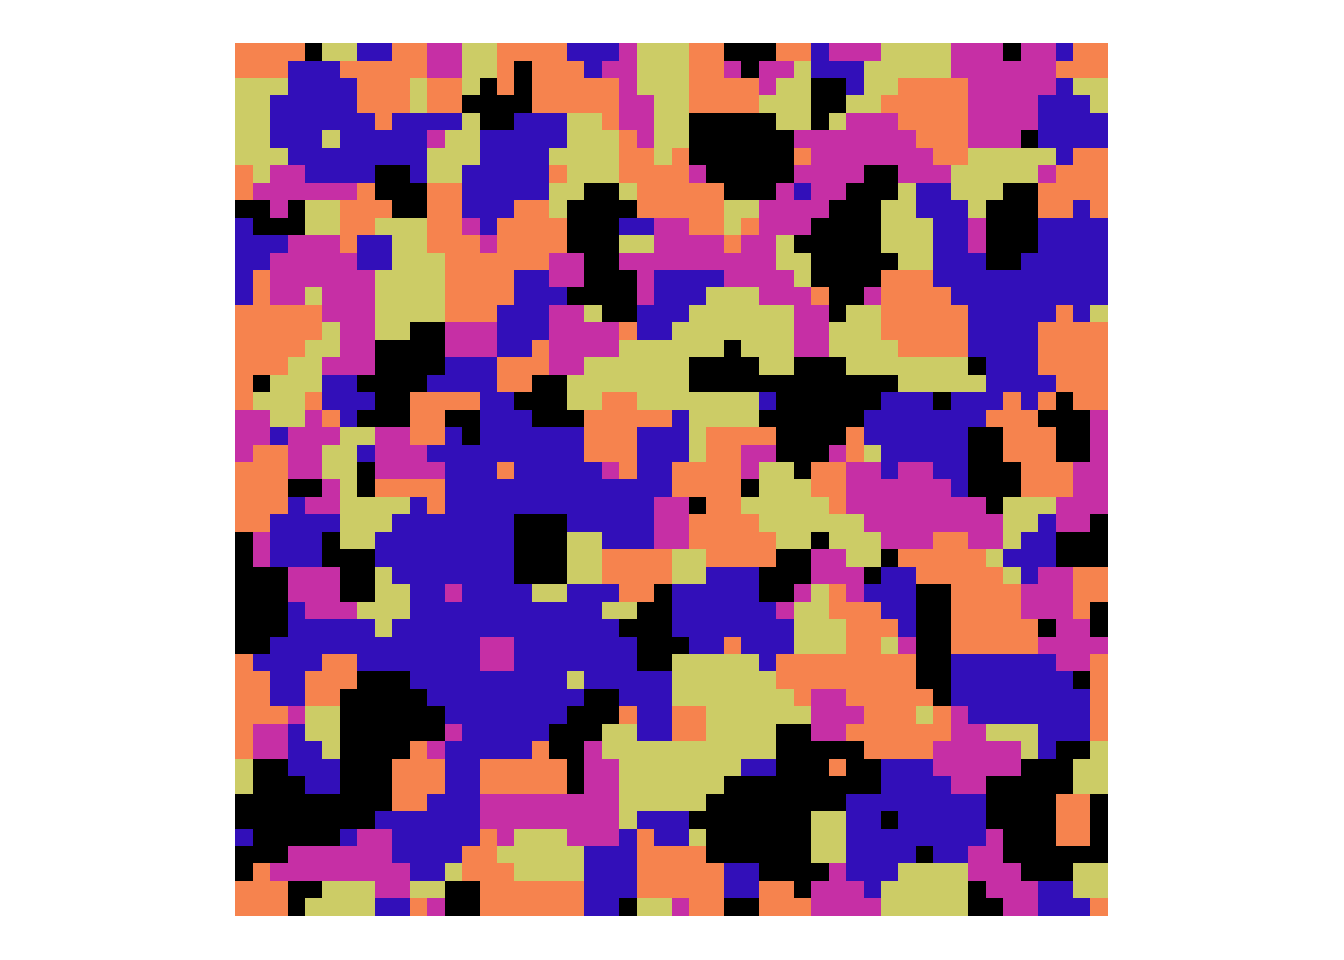
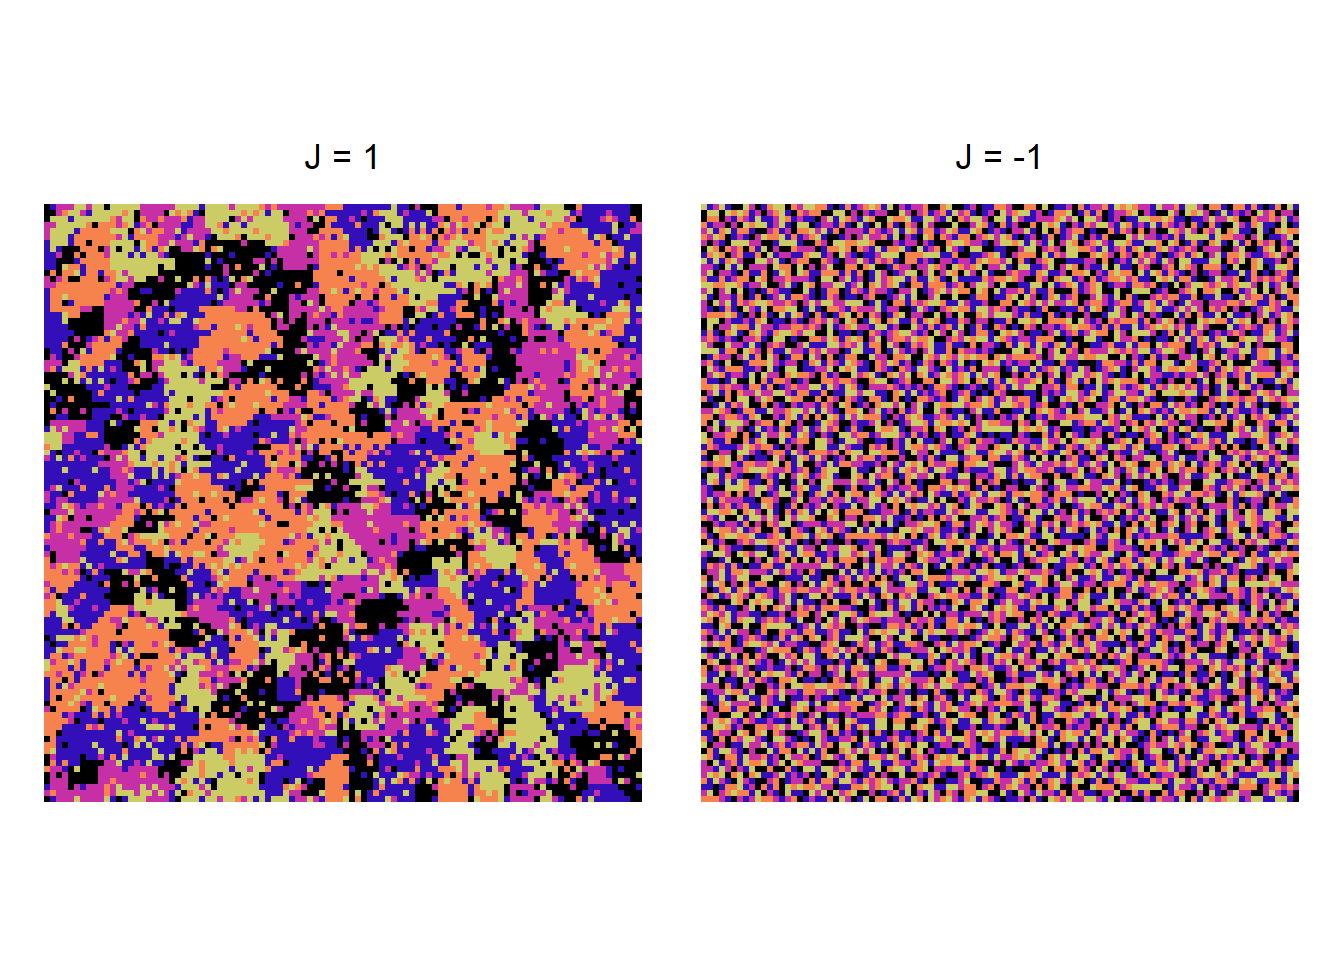
updte

diff --git a/docs/posts/2025-12-19-spatial-patterns-2/index.html b/docs/posts/2025-12-19-spatial-patterns-2/index.html
@@ -357,7 +357,7 @@ H(s) = -J\sum_{\langle i, j\rangle} \delta(s_i,s_j)
 <div class="cell">
 <div class="sourceCode cell-code" id="cb5"><pre class="sourceCode r code-with-copy"><code class="sourceCode r"><span id="cb5-1"><a href="#cb5-1" aria-hidden="true" tabindex="-1"></a><span class="fu">ifelse</span>(<span class="fu">runif</span>(<span class="dv">1</span>) <span class="sc">&lt;</span> P, <span class="dv">1</span>, <span class="sc">-</span><span class="dv">1</span>)</span></code><button title="Copy to Clipboard" class="code-copy-button"><i class="bi"></i></button></pre></div>
 <div class="cell-output cell-output-stdout">
-<pre><code>[1] -1</code></pre>
+<pre><code>[1] 1</code></pre>
 </div>
 </div>
 <p>Putting this together, we have a function with which we can loop over focal states and then make updates.</p>
@@ -577,7 +577,7 @@ H(s) = -J\sum_{\langle i, j\rangle} \delta(s_i,s_j)
 </section>
 <section id="potts-example" class="level2">
 <h2 class="anchored" data-anchor-id="potts-example">Potts Example</h2>
-<p>Now let’s turn to the potts model. This code looks very simulate to the previous, except that instead of summing across all the states, we use <code>tabulate</code> to retrieve the frequency of the states within the neighborhood. All other changes are to extend the model to <code>q</code> states (e.g., <code>seq_len(q)</code>).</p>
+<p>Now let’s turn to the Potts model. This code looks very simulate to the previous, except that instead of summing across all the states, we use <code>tabulate</code> to retrieve the frequency of the states within the neighborhood. All other changes are to extend the model to <code>q</code> states (e.g., <code>seq_len(q)</code>).</p>
 <div class="cell">
 <div class="sourceCode cell-code" id="cb14"><pre class="sourceCode r code-with-copy"><code class="sourceCode r"><span id="cb14-1"><a href="#cb14-1" aria-hidden="true" tabindex="-1"></a>potts <span class="ot">=</span> <span class="cf">function</span>(<span class="at">N =</span> <span class="dv">50</span>, </span>
 <span id="cb14-2"><a href="#cb14-2" aria-hidden="true" tabindex="-1"></a>                 <span class="at">q =</span> <span class="dv">5</span>, </span>
@@ -608,21 +608,40 @@ H(s) = -J\sum_{\langle i, j\rangle} \delta(s_i,s_j)
 <span id="cb14-27"><a href="#cb14-27" aria-hidden="true" tabindex="-1"></a>}</span></code><button title="Copy to Clipboard" class="code-copy-button"><i class="bi"></i></button></pre></div>
 </div>
 <div class="cell">
-<div class="sourceCode cell-code" id="cb15"><pre class="sourceCode r code-with-copy"><code class="sourceCode r"><span id="cb15-1"><a href="#cb15-1" aria-hidden="true" tabindex="-1"></a>N <span class="ot">=</span> <span class="dv">50</span></span>
-<span id="cb15-2"><a href="#cb15-2" aria-hidden="true" tabindex="-1"></a>beta <span class="ot">=</span> <span class="fl">0.8</span></span>
+<div class="sourceCode cell-code" id="cb15"><pre class="sourceCode r code-with-copy"><code class="sourceCode r"><span id="cb15-1"><a href="#cb15-1" aria-hidden="true" tabindex="-1"></a>N <span class="ot">=</span> <span class="dv">100</span></span>
+<span id="cb15-2"><a href="#cb15-2" aria-hidden="true" tabindex="-1"></a>beta <span class="ot">=</span> <span class="fl">0.3</span></span>
 <span id="cb15-3"><a href="#cb15-3" aria-hidden="true" tabindex="-1"></a>J <span class="ot">=</span> <span class="dv">1</span></span>
 <span id="cb15-4"><a href="#cb15-4" aria-hidden="true" tabindex="-1"></a>max_T <span class="ot">=</span> <span class="fl">1e4</span></span>
 <span id="cb15-5"><a href="#cb15-5" aria-hidden="true" tabindex="-1"></a>Ps <span class="ot">=</span> <span class="fu">potts</span>(<span class="at">N=</span>N, <span class="at">beta=</span>beta, <span class="at">J=</span>J, </span>
-<span id="cb15-6"><a href="#cb15-6" aria-hidden="true" tabindex="-1"></a>           <span class="at">n_steps =</span> max_T, <span class="at">offsets =</span> <span class="fu">disk_offsets</span>(<span class="at">rd=</span><span class="dv">1</span>))</span>
+<span id="cb15-6"><a href="#cb15-6" aria-hidden="true" tabindex="-1"></a>           <span class="at">n_steps =</span> max_T, <span class="at">offsets =</span> <span class="fu">disk_offsets</span>(<span class="at">rd=</span><span class="dv">3</span>))</span>
 <span id="cb15-7"><a href="#cb15-7" aria-hidden="true" tabindex="-1"></a></span>
-<span id="cb15-8"><a href="#cb15-8" aria-hidden="true" tabindex="-1"></a><span class="fu">expand.grid</span>(<span class="at">i=</span><span class="dv">1</span><span class="sc">:</span>N, <span class="at">j=</span><span class="dv">1</span><span class="sc">:</span>N) <span class="sc">|&gt;</span> </span>
+<span id="cb15-8"><a href="#cb15-8" aria-hidden="true" tabindex="-1"></a>p1 <span class="ot">=</span> <span class="fu">expand.grid</span>(<span class="at">i=</span><span class="dv">1</span><span class="sc">:</span>N, <span class="at">j=</span><span class="dv">1</span><span class="sc">:</span>N) <span class="sc">|&gt;</span> </span>
 <span id="cb15-9"><a href="#cb15-9" aria-hidden="true" tabindex="-1"></a>  <span class="fu">mutate</span>(<span class="at">Ps =</span> <span class="fu">as.vector</span>(Ps)) <span class="sc">|&gt;</span> </span>
 <span id="cb15-10"><a href="#cb15-10" aria-hidden="true" tabindex="-1"></a>  <span class="fu">ggplot</span>(<span class="fu">aes</span>(i,j)) <span class="sc">+</span> </span>
 <span id="cb15-11"><a href="#cb15-11" aria-hidden="true" tabindex="-1"></a>  <span class="fu">geom_tile</span>(<span class="fu">aes</span>(<span class="at">fill=</span>Ps)) <span class="sc">+</span> </span>
 <span id="cb15-12"><a href="#cb15-12" aria-hidden="true" tabindex="-1"></a>  <span class="fu">theme_void</span>() <span class="sc">+</span> </span>
-<span id="cb15-13"><a href="#cb15-13" aria-hidden="true" tabindex="-1"></a>  <span class="fu">theme</span>(<span class="at">legend.position =</span> <span class="st">'none'</span>) <span class="sc">+</span> </span>
-<span id="cb15-14"><a href="#cb15-14" aria-hidden="true" tabindex="-1"></a>  <span class="fu">coord_fixed</span>() <span class="sc">+</span> </span>
-<span id="cb15-15"><a href="#cb15-15" aria-hidden="true" tabindex="-1"></a>  <span class="fu">scale_fill_gradientn</span>(<span class="at">colours =</span> <span class="fu">c</span>(<span class="st">'#000000'</span>,<span class="st">'#3300ff'</span>,<span class="st">'tomato'</span>,<span class="st">'#cccc66'</span>))</span></code><button title="Copy to Clipboard" class="code-copy-button"><i class="bi"></i></button></pre></div>
+<span id="cb15-13"><a href="#cb15-13" aria-hidden="true" tabindex="-1"></a>  <span class="fu">theme</span>(<span class="at">legend.position =</span> <span class="st">'none'</span>, </span>
+<span id="cb15-14"><a href="#cb15-14" aria-hidden="true" tabindex="-1"></a>        <span class="at">plot.title =</span> <span class="fu">element_text</span>(<span class="at">hjust =</span> <span class="fl">0.5</span>)) <span class="sc">+</span> </span>
+<span id="cb15-15"><a href="#cb15-15" aria-hidden="true" tabindex="-1"></a>  <span class="fu">coord_fixed</span>() <span class="sc">+</span> </span>
+<span id="cb15-16"><a href="#cb15-16" aria-hidden="true" tabindex="-1"></a>  <span class="fu">labs</span>(<span class="at">title =</span> <span class="st">'J = 1'</span>) <span class="sc">+</span> </span>
+<span id="cb15-17"><a href="#cb15-17" aria-hidden="true" tabindex="-1"></a>  <span class="fu">scale_fill_gradientn</span>(<span class="at">colours =</span> <span class="fu">c</span>(<span class="st">'#000000'</span>,<span class="st">'#3300ff'</span>,<span class="st">'tomato'</span>,<span class="st">'#cccc66'</span>))</span>
+<span id="cb15-18"><a href="#cb15-18" aria-hidden="true" tabindex="-1"></a></span>
+<span id="cb15-19"><a href="#cb15-19" aria-hidden="true" tabindex="-1"></a>J <span class="ot">=</span> <span class="sc">-</span><span class="dv">1</span></span>
+<span id="cb15-20"><a href="#cb15-20" aria-hidden="true" tabindex="-1"></a>Ps <span class="ot">=</span> <span class="fu">potts</span>(<span class="at">N=</span>N, <span class="at">beta=</span>beta, <span class="at">J=</span>J, </span>
+<span id="cb15-21"><a href="#cb15-21" aria-hidden="true" tabindex="-1"></a>           <span class="at">n_steps =</span> max_T, <span class="at">offsets =</span> <span class="fu">disk_offsets</span>(<span class="at">rd=</span><span class="dv">3</span>))</span>
+<span id="cb15-22"><a href="#cb15-22" aria-hidden="true" tabindex="-1"></a></span>
+<span id="cb15-23"><a href="#cb15-23" aria-hidden="true" tabindex="-1"></a>p2 <span class="ot">=</span> <span class="fu">expand.grid</span>(<span class="at">i=</span><span class="dv">1</span><span class="sc">:</span>N, <span class="at">j=</span><span class="dv">1</span><span class="sc">:</span>N) <span class="sc">|&gt;</span> </span>
+<span id="cb15-24"><a href="#cb15-24" aria-hidden="true" tabindex="-1"></a>  <span class="fu">mutate</span>(<span class="at">Ps =</span> <span class="fu">as.vector</span>(Ps)) <span class="sc">|&gt;</span> </span>
+<span id="cb15-25"><a href="#cb15-25" aria-hidden="true" tabindex="-1"></a>  <span class="fu">ggplot</span>(<span class="fu">aes</span>(i,j)) <span class="sc">+</span> </span>
+<span id="cb15-26"><a href="#cb15-26" aria-hidden="true" tabindex="-1"></a>  <span class="fu">geom_tile</span>(<span class="fu">aes</span>(<span class="at">fill=</span>Ps)) <span class="sc">+</span> </span>
+<span id="cb15-27"><a href="#cb15-27" aria-hidden="true" tabindex="-1"></a>  <span class="fu">theme_void</span>() <span class="sc">+</span> </span>
+<span id="cb15-28"><a href="#cb15-28" aria-hidden="true" tabindex="-1"></a>  <span class="fu">theme</span>(<span class="at">legend.position =</span> <span class="st">'none'</span>, </span>
+<span id="cb15-29"><a href="#cb15-29" aria-hidden="true" tabindex="-1"></a>        <span class="at">plot.title =</span> <span class="fu">element_text</span>(<span class="at">hjust =</span> <span class="fl">0.5</span>)) <span class="sc">+</span> </span>
+<span id="cb15-30"><a href="#cb15-30" aria-hidden="true" tabindex="-1"></a>  <span class="fu">coord_fixed</span>() <span class="sc">+</span> </span>
+<span id="cb15-31"><a href="#cb15-31" aria-hidden="true" tabindex="-1"></a>  <span class="fu">labs</span>(<span class="at">title =</span> <span class="st">'J = -1'</span>) <span class="sc">+</span> </span>
+<span id="cb15-32"><a href="#cb15-32" aria-hidden="true" tabindex="-1"></a>  <span class="fu">scale_fill_gradientn</span>(<span class="at">colours =</span> <span class="fu">c</span>(<span class="st">'#000000'</span>,<span class="st">'#3300ff'</span>,<span class="st">'tomato'</span>,<span class="st">'#cccc66'</span>))</span>
+<span id="cb15-33"><a href="#cb15-33" aria-hidden="true" tabindex="-1"></a></span>
+<span id="cb15-34"><a href="#cb15-34" aria-hidden="true" tabindex="-1"></a>p1 <span class="sc">+</span> p2</span></code><button title="Copy to Clipboard" class="code-copy-button"><i class="bi"></i></button></pre></div>
 <div class="cell-output-display">
 <div>
 <figure class="figure">
